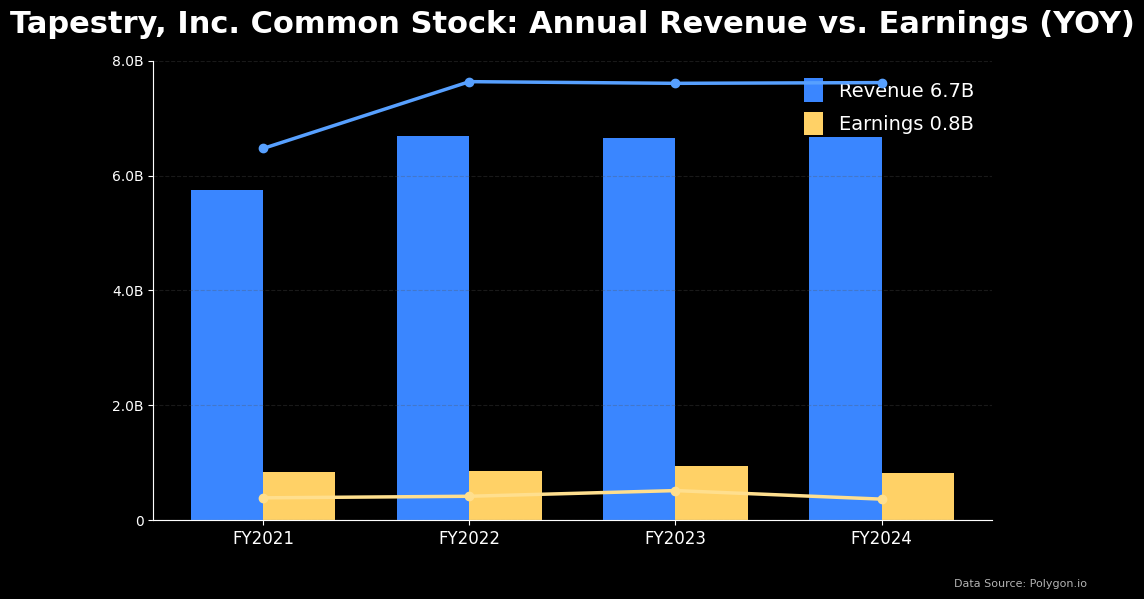
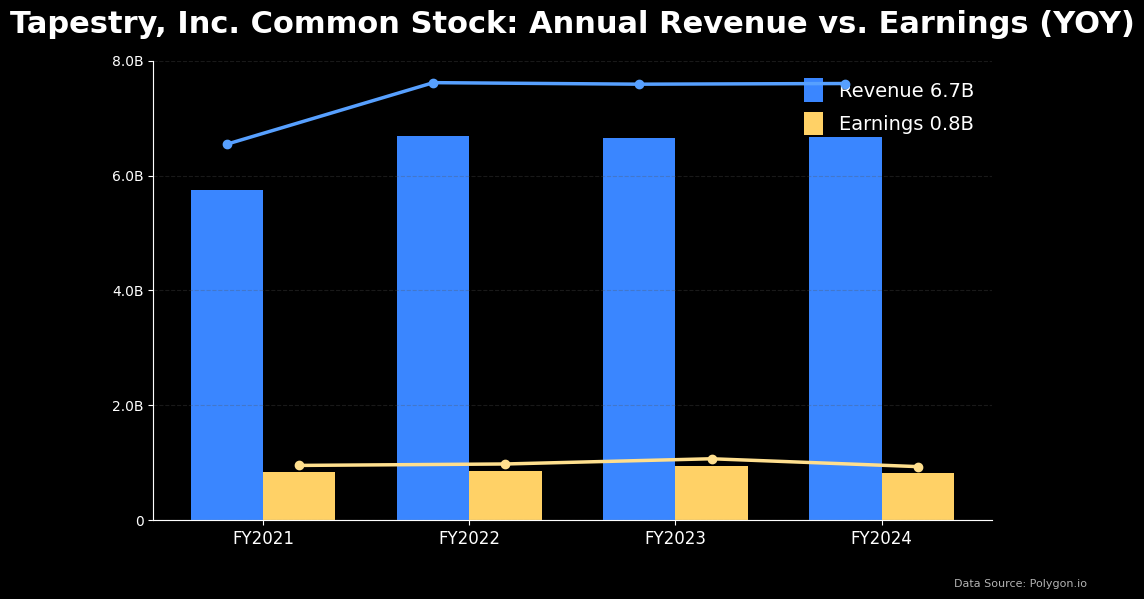
aligned to the middle of the graph

diff --git a/src/fundamentals_historical.py b/src/fundamentals_historical.py
@@ -208,18 +208,19 @@ def get_polygon_yearly_data(ticker, years=4, retries=3):
     print("ERROR: All retry attempts failed")
     return None, ticker
 
-
 def generate_yearly_performance_chart(ticker, years=4, dark_theme=True):
     """Generate a yearly performance chart comparing revenue and earnings."""
     print(f"INFO: Generating yearly chart for {ticker}, years={years}, dark_theme={dark_theme}")
     
     try:
-        # Get data from Polygon.io - no mock data fallback
+        # Get data from Polygon.io with fallback to mock data if needed
         financial_data, company_name = get_polygon_yearly_data(ticker, years)
-
         if financial_data is None or len(financial_data) == 0:
-            print(f"ERROR: No financial data available for {ticker}")
-            return None
+            print(f"ERROR: No financial data available for {ticker}, falling back to mock data")
+            financial_data, company_name = generate_mock_financial_data(ticker, years)
+            if financial_data is None or len(financial_data) == 0:
+                print(f"ERROR: Failed to generate mock data for {ticker}")
+                return None
         
         # Sort data by year (chronological order - oldest to newest)
         financial_data.sort(key=lambda x: x["year"])
@@ -228,9 +229,12 @@ def generate_yearly_performance_chart(ticker, years=4, dark_theme=True):
         year_labels = [item["label"] for item in financial_data]
         revenue = [item["revenue"] for item in financial_data]
         earnings = [item["netIncome"] for item in financial_data]
-
+        
+        print(f"DEBUG: Data for visualization - Labels: {year_labels}")
+        print(f"DEBUG: Data for visualization - Revenue: {[r/1e9 for r in revenue]}")
+        print(f"DEBUG: Data for visualization - Earnings: {[e/1e9 for e in earnings]}")
+        
         max_raw = max(max(revenue, default=0), max(earnings, default=0))
-
         if max_raw >= 1e12: 
             divisor, unit = 1e12, 'T'          # Trillions
         elif max_raw >= 1e9:  
@@ -240,14 +244,14 @@ def generate_yearly_performance_chart(ticker, years=4, dark_theme=True):
         elif max_raw >= 1e3:  
             divisor, unit = 1e3,  'K'          # Thousands
         else:                
-            divisor, unit = 1,    ''            # Ones
-
+            divisor, unit = 1,    ''           # Ones
+            
         revenue_scaled = [r / divisor for r in revenue]
         earnings_scaled = [e / divisor for e in earnings]
         
-        print(f"INFO: Processed {len(year_labels)} years of data: {year_labels}")
-        print(f"INFO: Revenue values: {revenue_scaled}")
-        print(f"INFO: Earnings values: {earnings_scaled}")
+        print(f"INFO: Using {unit} as unit for chart with divisor {divisor}")
+        print(f"INFO: Scaled revenue values: {revenue_scaled}")
+        print(f"INFO: Scaled earnings values: {earnings_scaled}")
         
         # Set up the figure with theme
         if dark_theme:
@@ -263,6 +267,8 @@ def generate_yearly_performance_chart(ticker, years=4, dark_theme=True):
             text_colour = 'black'
             grid_colour = '#cccccc'
         
+        # Create the figure and axes
+        print("DEBUG: Creating figure and axes")
         fig, ax = plt.subplots(figsize=(10, 6))
         
         # Bar positions and width
@@ -270,40 +276,76 @@ def generate_yearly_performance_chart(ticker, years=4, dark_theme=True):
         x = np.arange(len(year_labels))
         
         # Create bars
-        revenue_bars = ax.bar(x - bar_width/2, revenue_scaled, bar_width, label='Revenue', color=bar_colours[0])
-        earnings_bars = ax.bar(x + bar_width/2, earnings_scaled, bar_width, label='Earnings', color=bar_colours[1])
+        print("DEBUG: Drawing bar charts")
+        revenue_bars = ax.bar(x - bar_width/2, revenue_scaled, bar_width, color=bar_colours[0])
+        earnings_bars = ax.bar(x + bar_width/2, earnings_scaled, bar_width, color=bar_colours[1])
         
+        # Create a second axis for the trend lines that's aligned with the first
+        print("DEBUG: Setting up secondary axis for trend lines")
         ax2 = ax.twinx() 
+        ax2.set_ylim(ax.get_ylim())  # Match y-axis limits between both axes
         ax2.spines['right'].set_visible(False)  
         ax2.spines['top'].set_visible(False)    
-        ax2.yaxis.set_visible(False)            
-
-        # Add lines for revenue and earnings trends with markers
-        ax2.plot(x, revenue_scaled, '-o', color=line_colours[0], linewidth=2.5, markersize=6)
-        ax2.plot(x, earnings_scaled, '-o', color=line_colours[1], linewidth=2.5, markersize=6)
+        ax2.yaxis.set_visible(False)
+        
+        # Get top of each bar for line plotting (to place lines at the exact top)
+        revenue_tops = revenue_scaled.copy()
+        earnings_tops = earnings_scaled.copy()
+        
+        # Add lines for revenue and earnings trends with markers at the top of each bar
+        print("DEBUG: Drawing trend lines")
+        revenue_line = ax2.plot(x - bar_width/2, revenue_tops, '-o', color=line_colours[0], 
+                               linewidth=2.5, markersize=6, zorder=10)
+        earnings_line = ax2.plot(x + bar_width/2, earnings_tops, '-o', color=line_colours[1], 
+                                linewidth=2.5, markersize=6, zorder=10)
         
         # Set title with company name
         chart_title = f'{company_name}: Annual Revenue vs. Earnings (YOY)'
         ax.set_title(chart_title, fontsize=22, pad=20, color=text_colour, fontweight='bold')
         
-        # Create custom legend with latest values
-        latest_revenue = revenue_scaled[-1] 
-        latest_earnings = earnings_scaled[-1] 
+        # Create custom horizontal legend with spacing between elements
+        print("DEBUG: Creating custom legend")
+        latest_revenue = revenue_scaled[-1]
+        latest_earnings = earnings_scaled[-1]
         
-        legend_text = [
-            f'Revenue {latest_revenue:.1f}{unit}',
-            f'Earnings {latest_earnings:.1f}{unit}'
+        # Revenue square + label + value
+        revenue_patch = plt.Rectangle((0, 0), 1, 1, color=bar_colours[0])
+        
+        # Earnings square + label + value
+        earnings_patch = plt.Rectangle((0, 0), 1, 1, color=bar_colours[1])
+        
+        # Create horizontal legend with proper spacing
+        from matplotlib.lines import Line2D
+        legend_items = [
+            # Revenue items
+            (revenue_patch, "Revenue"),
+            (Line2D([0], [0], color='none'), f"{latest_revenue:.1f}{unit}"),
+            # Spacer
+            (Line2D([0], [0], color='none'), "     "),
+            # Earnings items
+            (earnings_patch, "Earnings"),
+            (Line2D([0], [0], color='none'), f"{latest_earnings:.1f}{unit}")
         ]
         
-        legend_elements = [
-            Patch(facecolor=bar_colours[0], label=legend_text[0]),
-            Patch(facecolor=bar_colours[1], label=legend_text[1])
-        ]
+        # Create the custom legend
+        legend = ax.legend(
+            [item[0] for item in legend_items],
+            [item[1] for item in legend_items],
+            loc='upper right',
+            frameon=False,
+            ncol=5,  # All items in one row
+            handlelength=1.5,
+            handleheight=1.5,
+            fontsize=14
+        )
         
-        ax.legend(handles=legend_elements, loc='upper right', frameon=False, 
-                  fontsize=14, handlelength=1, handleheight=1.5)
+        # Make values bold
+        for i, text in enumerate(legend.get_texts()):
+            if i == 1 or i == 4:  # Revenue and earnings values
+                text.set_fontweight('bold')
         
         # Set x-axis ticks and labels
+        print("DEBUG: Setting up axes and labels")
         ax.set_xticks(x)
         ax.set_xticklabels(year_labels, fontsize=12)
         
@@ -341,25 +383,32 @@ def generate_yearly_performance_chart(ticker, years=4, dark_theme=True):
             ax.text(0.99, 0.01, data_source, ha='right', va='bottom',
                    transform=fig.transFigure, fontsize=8, alpha=0.7, color=text_colour)
         
+        print("DEBUG: Applying tight layout")
         plt.tight_layout()
         
         # Save to buffer
+        print("DEBUG: Saving chart to buffer")
         buf = io.BytesIO()
         plt.savefig(buf, format='png', dpi=100, bbox_inches='tight')
         buf.seek(0)
         
         # Convert to base64
+        print("DEBUG: Converting to base64")
         img_str = base64.b64encode(buf.getvalue()).decode('utf-8')
         plt.close(fig)
         
-        print(f"INFO: Chart generated successfully")
+        # Check if the image data is valid
+        print(f"DEBUG: Generated base64 string length: {len(img_str)}")
+        if len(img_str) < 1000:
+            print("WARNING: Generated image seems too small, might be corrupted")
+        
+        print("INFO: Chart generated successfully")
         return img_str
     
     except Exception as e:
         print(f"ERROR: Failed to generate chart: {e}")
         print(traceback.format_exc())
         return None
-
 
 def generate_mock_financial_data(ticker, years=4):
     """Generate realistic mock financial data for a given ticker"""
